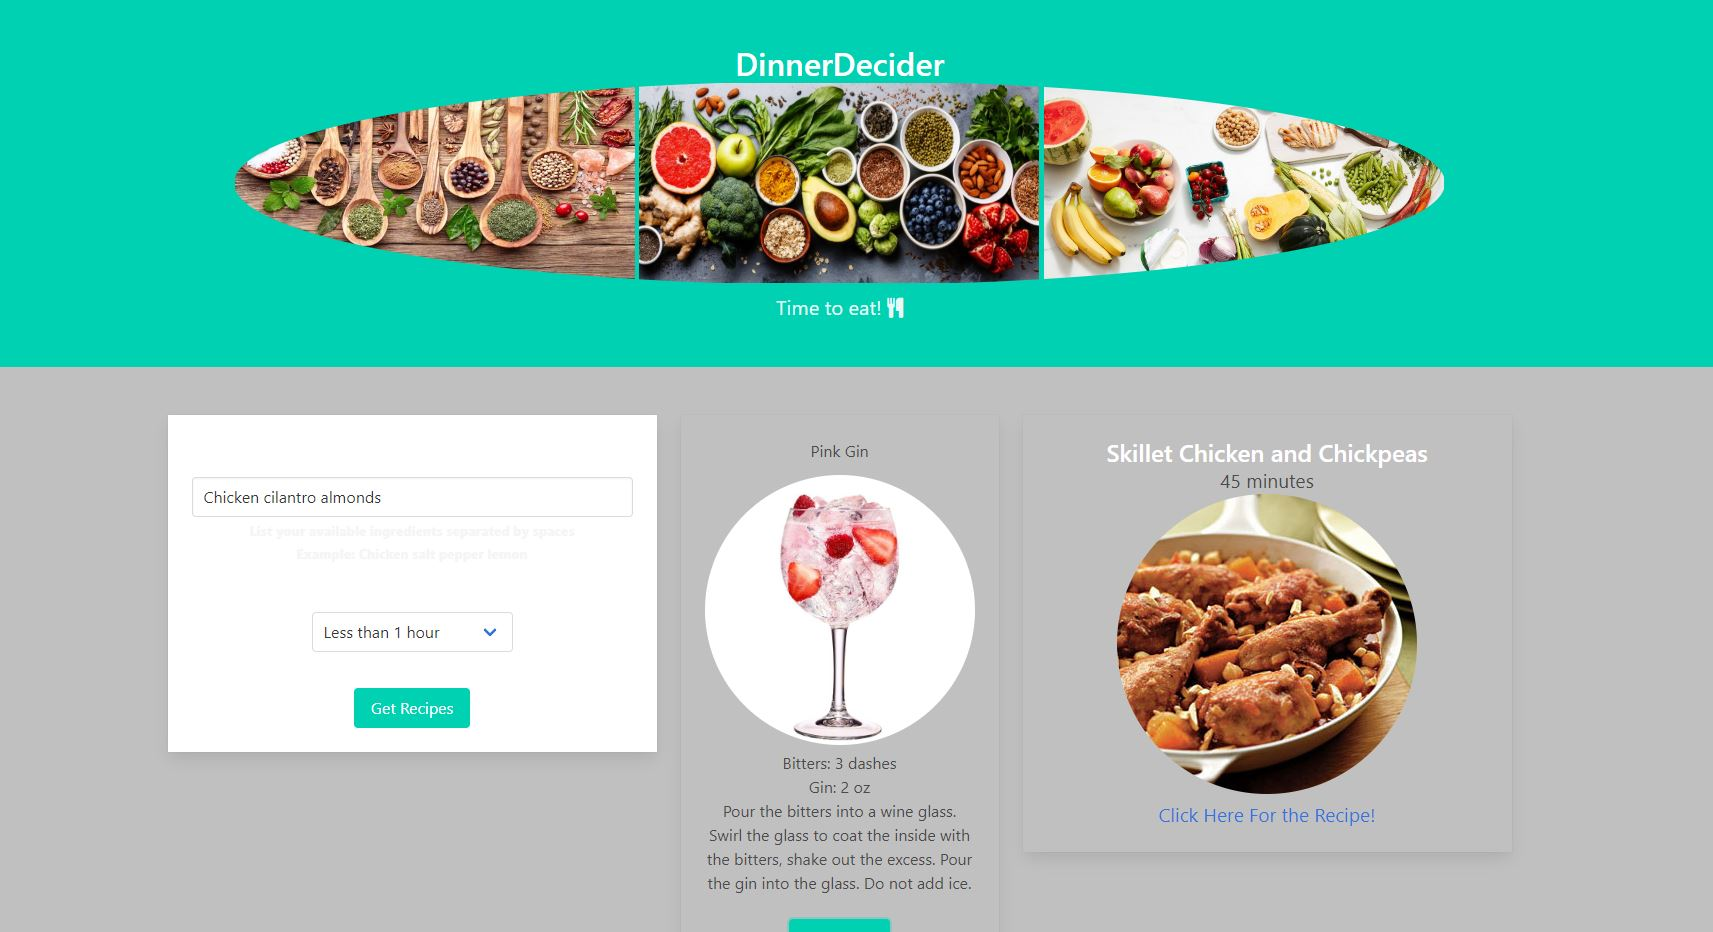
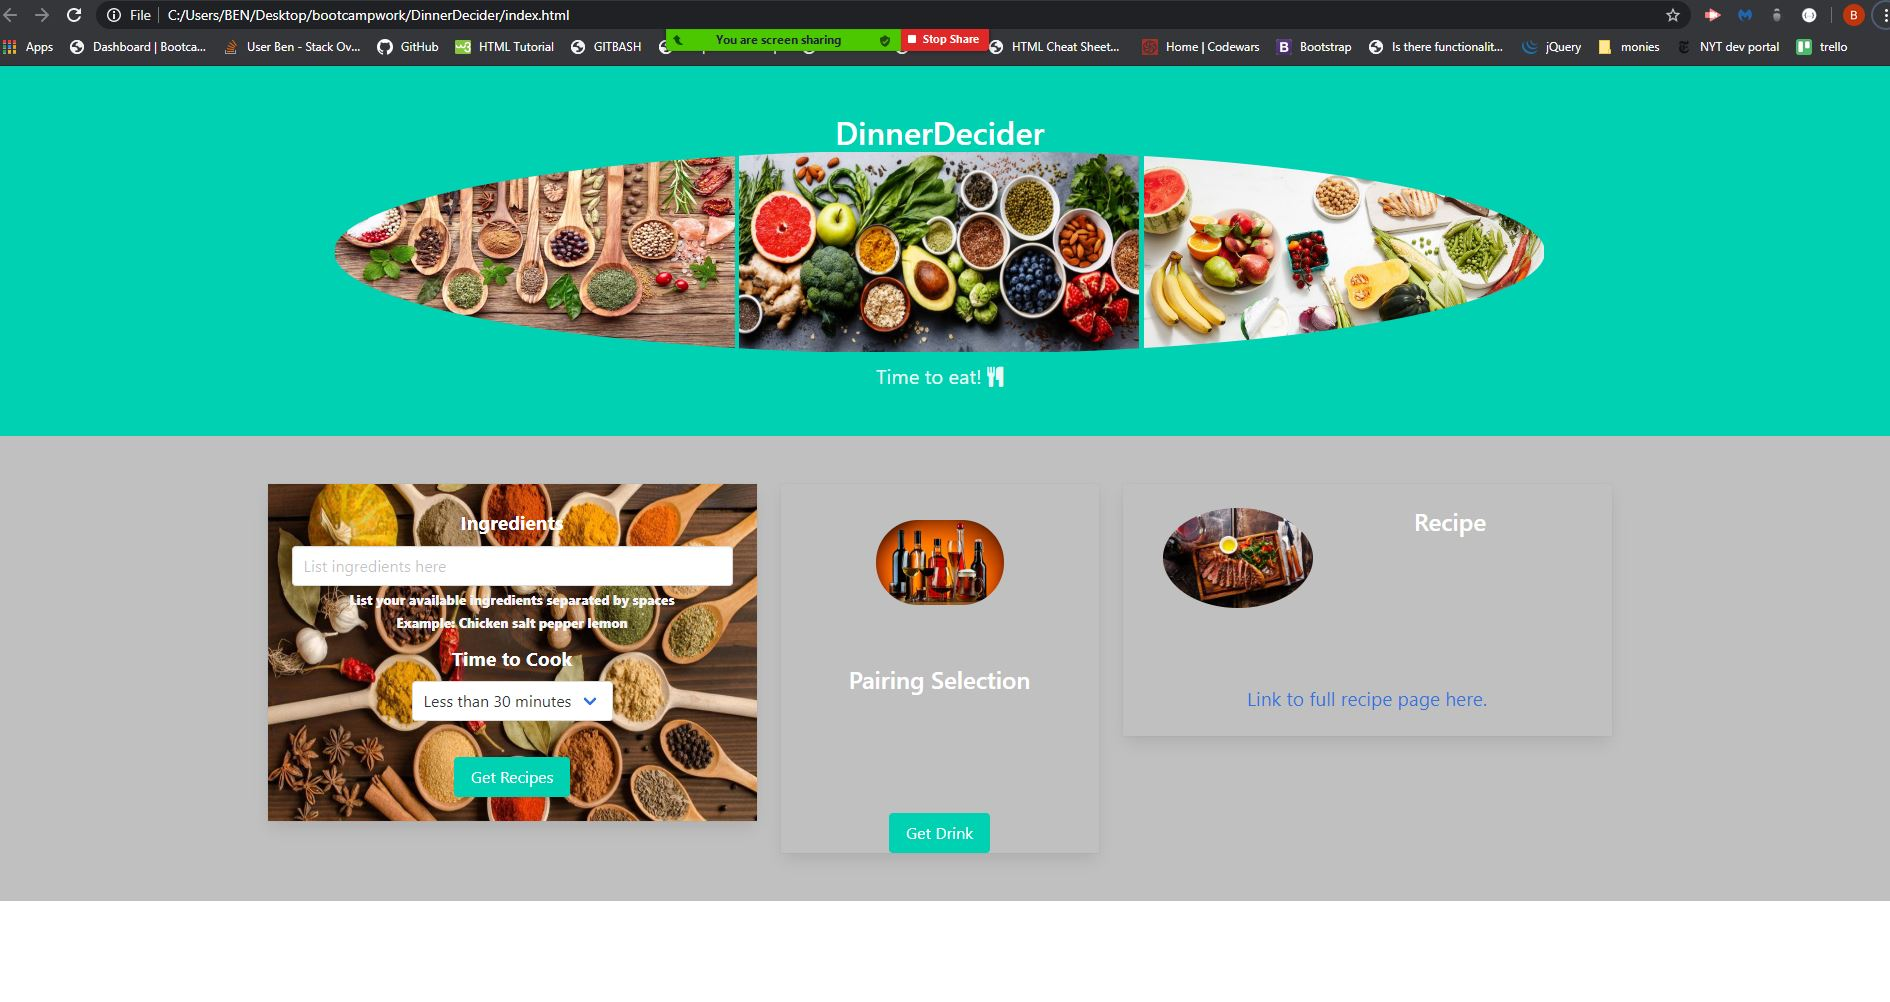
minor fixes

diff --git a/assets/javascript.js b/assets/javascript.js
@@ -1,51 +1,52 @@
-var edamamURL = "https://api.edamam.com/search?q="
-var edamAppID = "578c5ca1"
-var edamKey = "8bca4f7e2dc388b15b67b50c90a7cf77"
+var edamamURL = "https://api.edamam.com/search?q=";
+var edamAppID = "578c5ca1";
+var edamKey = "8bca4f7e2dc388b15b67b50c90a7cf77";
 
 
 $("#drink-button").on("click", function(event){
-    event.preventDefault()
-    
+    event.preventDefault();
+    //This is the drink portion of the website. Ray figured out the API call, and the info that returns
     var url = "https://www.thecocktaildb.com/api/json/v1/1/random.php";
-    $("#drink-info").empty()
+    $("#drink-info").empty();
    
     $.ajax({
         url: url,
         method: "GET"
     }).then(function(response) {
         let drinkDiv = $("<div>");
-        let drink = response.drinks[0]
-        let drinkName = $("<h3>").text(drink.strDrink);
-        let drinkPic = $("<img>")
+        let drink = response.drinks[0];
+        let drinkName = $("<h2>").text(drink.strDrink);
+        let drinkPic = $("<img>");
         let drinkPicImg = drink.strDrinkThumb;
         let ingDiv = $("<div>");
+        //Ben build this for loop that displays ingredients and amounts
         for( var i = 1; i < 16; i++){
             let ing = 'strIngredient' + [i];
             let ingAmt = 'strMeasure' + [i];
-            let currAmt = drink[ingAmt]
+            if(ingAmt === null){
+                ingAmt = ""
+            };
+            let currAmt = drink[ingAmt];
             let currIng = $("<p>" + drink[ing] + ": " + currAmt + "</p>");
 
             if(drink[ing] === null){
                 break;
             }else{
                 ingDiv.append(currIng)
-            }
-
-            console.log(ing)
-            console.log(currIng)
-        }
-        drinkPic.attr("src", drinkPicImg)
-        drinkPic.attr("class", "is-rounded mt-3")
+            };
+        };
+        drinkPic.attr("src", drinkPicImg);
+        drinkPic.attr("class", "is-rounded mt-3");
         let instructions = drink.strInstructions;       
         drinkDiv.append(drinkName, drinkPic, ingDiv, instructions);
         $("#drink-info").append(drinkDiv);
-    })    
-})
+    });
+});
 
 
-
+//here is the second API call. Ray figured out how to format the url, and the info that returns.
 $("#recipe-button").on("click", function(event){
-    event.preventDefault()
+    event.preventDefault();
     $("#recipeDiv").empty();
     var searchQ = $(".input").val()
     var maxCookTime = $("#cook-time select").val()
@@ -58,9 +59,11 @@ $("#recipe-button").on("click", function(event){
     }).then(function(response){
         console.log(queryURL)
         console.log(response)
+        //Ben added the randomization or the recipe
         let j = Math.ceil(Math.random() * 30)
         let recipe = response.hits[j].recipe;
         console.log(j)
+        //both Ray and Ben build the appending system for the recipe
         let recipeCard = $("<div>");
         let title = $('<p>').text(recipe.label);
         title.attr('class', "title is-4")
@@ -68,6 +71,7 @@ $("#recipe-button").on("click", function(event){
         let cookTime = $('<p>').text(recipe.totalTime + " minutes");
         let recipeLink = $("<a>" + "Click Here For the Recipe!" + "</a>");
         recipeLink.attr("href", recipe.url)
+        recipeLink.attr("target", "_blank")
         recipeImg.attr('src', recipe.image);
         recipeCard.attr('class', "recipe-card");
         recipeCard.append(title);

diff --git a/index.html b/index.html
@@ -44,7 +44,7 @@
           <div class="columns">
             <div class="column" id="firstColumn">
               <div class="card">
-                <div id=ingredients div class="card-content">
+                <div id="ingredients" class="card-content">
               <div class="field">
                 <label class="label">Ingredients</label>
                 <div class="control">
@@ -93,10 +93,6 @@
                       <div class="media">
                         <div class="media-content">
                           <p class="title is-4">Pairing Selection
-                            <!--
-                            <i class="fa fa-glass" aria-hidden="true"></i>
-                            <i class="fa fa-beer" aria-hidden="true"></i>
-                            -->
                           </p>
                         </div>
                       </div>
@@ -128,9 +124,6 @@
                     </div>
                     <div class="media-content">
                       <p class="title is-4">Recipe</p>
-                      <!---
-                      <p class="subtitle is-6"></p>
-                    -->
                     </div>
                   </div>
                   <div class="content">

diff --git a/assets/stylesheet.css b/assets/stylesheet.css
@@ -5,7 +5,7 @@ body {
 
 }
 #ingredients{
-    background-image: url('assets/images/spice_spoon.jpg');
+    background-image: url('images/spice_spoon.jpg');
     background-size: 100% 100%;
     text-align: center;
     color: white;
@@ -71,7 +71,7 @@ h1{
   }
   .label{
       font-size: larger;
-      image-resolution: url('assets/images/bannerBGmain');
+      image-resolution: url('images/bannerBGmain');
     background-size: 100% 100%;
     margin-top: auto;
       

diff --git a/README.md b/README.md
@@ -4,3 +4,5 @@ A website that provides a user with a list of possible cooking recipies based on
 <img src="assets/project_snips/snip_main.jpg">
 
 Here is a deployed website that has the ability to input ingredients that the user has, or a craving the user might have, and output a recipe based on those, as well as time allotted. 
+
+This website was build using Bulma HTML framework, and JQuery Javascript library
